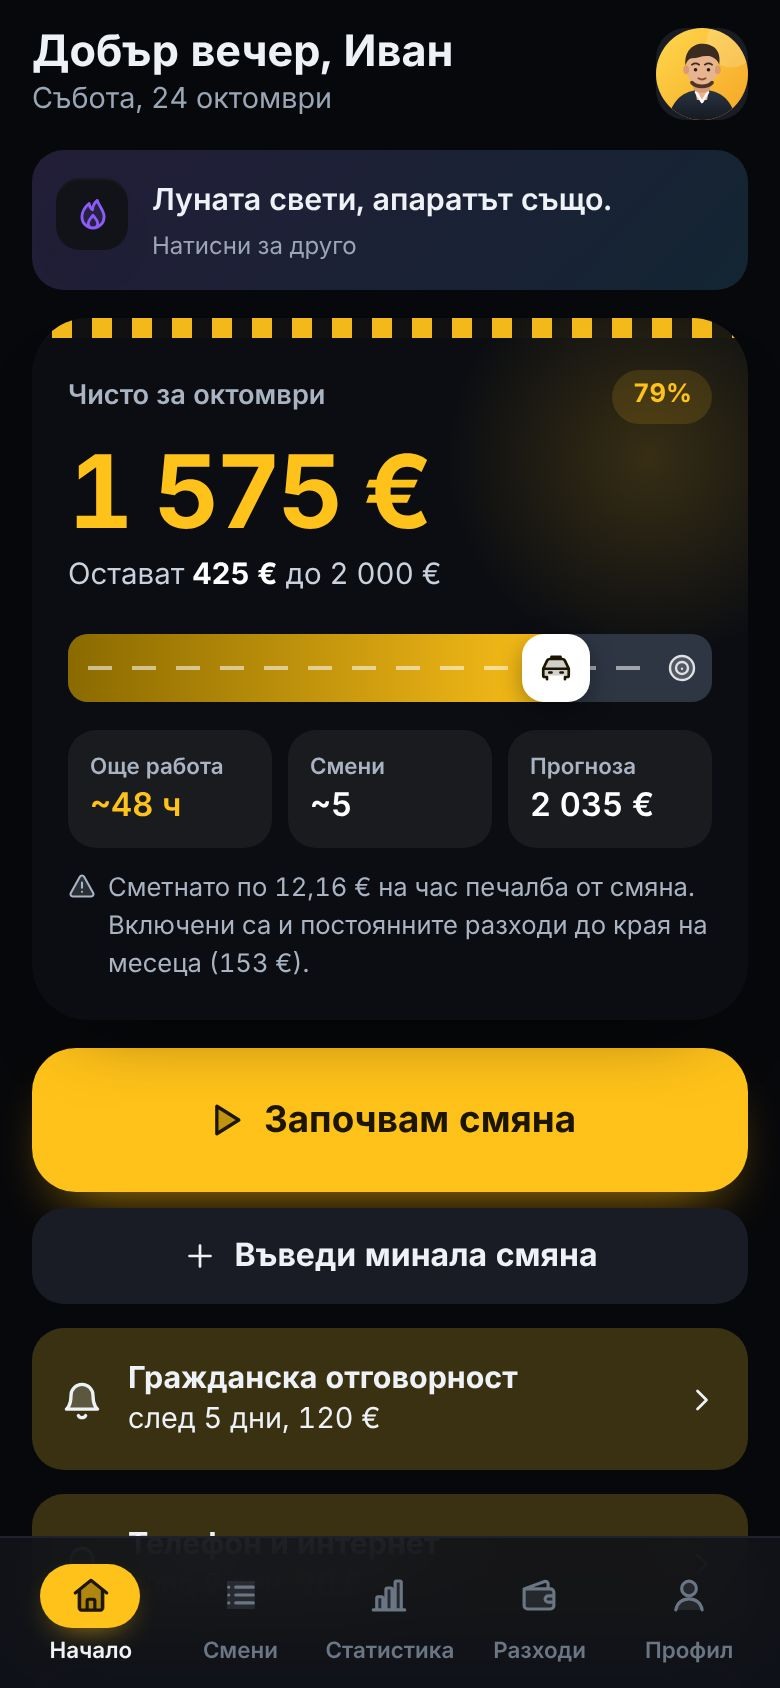
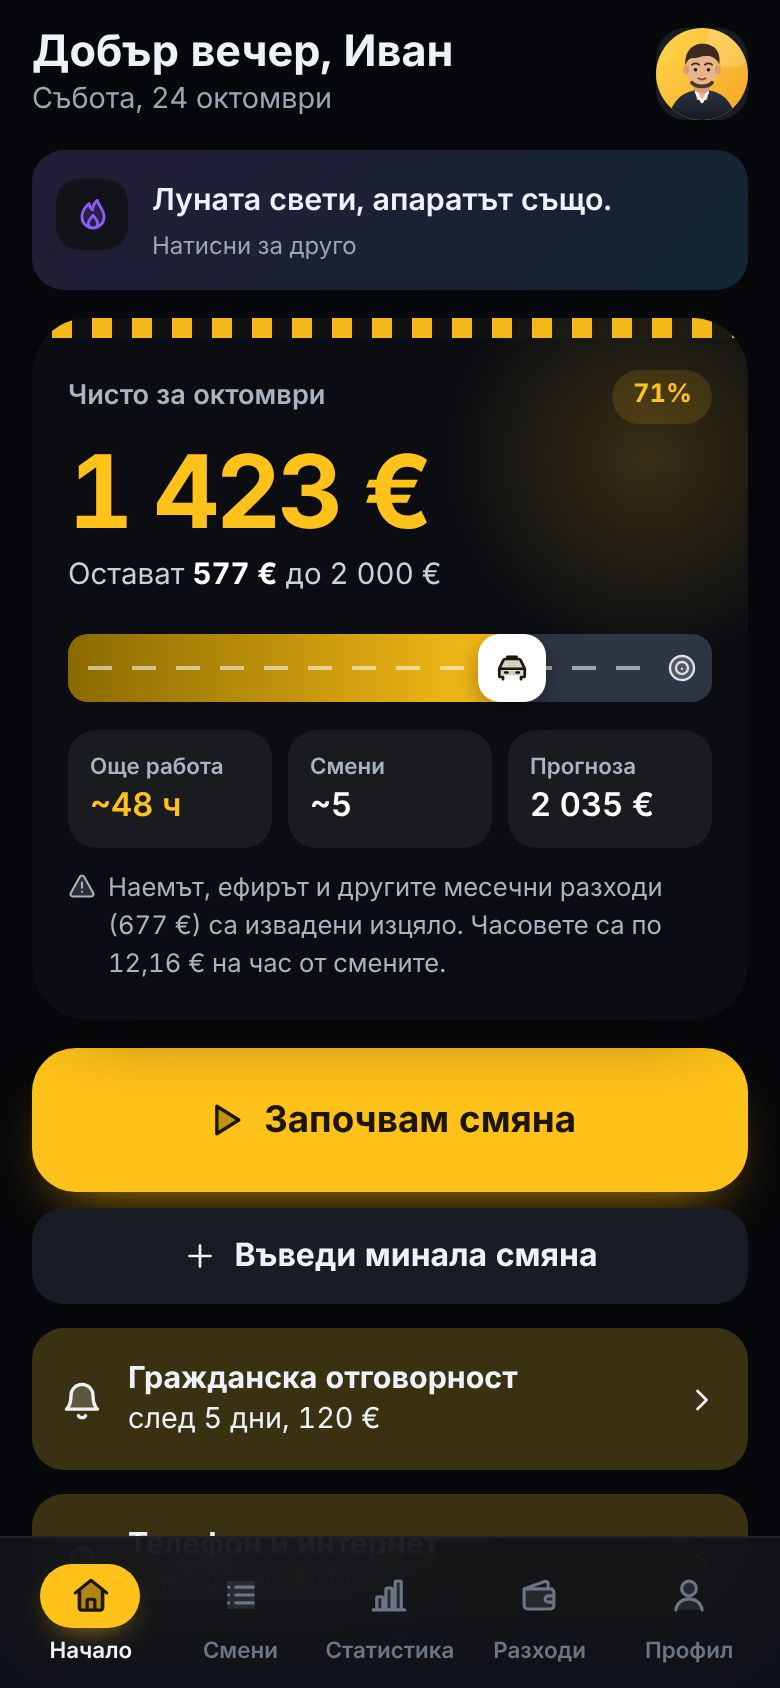
Цел за месеца: наемът, ефирът и месечните разходи се изваждат изцяло
- Чистото за месеца на началния екран вече е след целия наем/ефир за месеца
- Часовете до целта = (цел − чисто) / печалба на час от смените
- Смяна над 24 ч или с край в бъдещето: пита, вместо да блокира
- Обновени снимки и текстове на сайта

Claude-Session: https://claude.ai/code/session_014HWntc6b96vsoychA5RByP

diff --git a/js/views/shift.js b/js/views/shift.js
@@ -102,7 +102,7 @@ export function shiftEditorView(ctx) {
       // Лента за запис
       h('div', { class: 'save-bar' },
         h('div', { class: 'sum' }, h('span', null, 'Чисто за смяната'), h('b', { class: net >= 0 ? 'pos' : 'neg' }, money(net))),
-        h('button', { class: 'btn btn-primary btn-lg', onclick: save }, icon('check', 20), !draft.end ? 'Запази' : wasActive ? 'Приключи' : 'Запази')));
+        h('button', { class: 'btn btn-primary btn-lg', onclick: () => save() }, icon('check', 20), !draft.end ? 'Запази' : wasActive ? 'Приключи' : 'Запази')));
   }
 
   const kmTile = (label, v, onTap) => h('button', { class: 'tile', style: { '--tc': 'var(--c-teal)' }, onclick: onTap },
@@ -165,11 +165,16 @@ export function shiftEditorView(ctx) {
     draw();
     toast(`Добавени ${copied.length} разхода. Смени сумите, ако трябва.`);
   }
-  function save() {
+  function save(force = false) {
     if (draft.end && new Date(draft.end) <= new Date(draft.start)) { toast('Краят трябва да е след началото', 'err'); return; }
     if (draft.kmEnd > 0 && draft.kmEnd < draft.kmStart) { toast('Провери километража', 'err'); return; }
-    if (draft.end && new Date(draft.end) - new Date() > 10 * 60000) { toast('Краят на смяната е в бъдещето. Провери датата.', 'err'); return; }
-    if (draft.end && (new Date(draft.end) - new Date(draft.start)) / 3600000 > 24) { toast('Смяната е над 24 часа. Провери началото и края.', 'err'); return; }
+    // Необичайна смяна (над 24 часа или с край в бъдещето) – питаме, но позволяваме
+    const longH = draft.end ? (new Date(draft.end) - new Date(draft.start)) / 3600000 : 0;
+    const future = draft.end && new Date(draft.end) - new Date() > 10 * 60000;
+    if (!force && (longH > 24 || future)) {
+      confirmSheet({ title: 'Провери времето', text: `${longH > 24 ? `Смяната е ${Math.round(longH)} часа. ` : ''}${future ? 'Краят е в бъдещето. ' : ''}Да я запишем ли така?`, okLabel: 'Запиши все пак', onOk: () => save(true) });
+      return;
+    }
     const saved = store.saveShift(draft);
     const ended = wasActive && saved.end;
     draft = null; draftKey = null;

diff --git a/js/calc.js b/js/calc.js
@@ -149,8 +149,13 @@ export function goalProgress(data) {
     const withoutWork = fixedForDay(data.costs, data.profile, d, false);
     fixedLeft += withoutWork + (all - withoutWork) * workRatio; // таксата „на работен ден“ – само за очакваните работни дни
   }
-  const remaining = Math.max(0, goal - st.net);
-  const toEarn = remaining > 0 ? remaining + fixedLeft : 0; // нужна печалба от смени до края на месеца
+  // Целта се гледа като шофьор: наемът, ефирът и другите месечни разходи са за целия месец
+  // (обикновено вече платени), затова се изваждат изцяло още сега, а не ден по ден.
+  // Остава да се изкара разликата до целта с печалбата на час от смените (без постоянните разходи).
+  const monthFixed = st.fixedExp + fixedLeft;
+  const net = st.income - st.varExp - monthFixed;
+  const remaining = Math.max(0, goal - net);
+  const toEarn = remaining; // нужна печалба от смени до края на месеца
   const hoursNeeded = ratePerHour > 0 ? toEarn / ratePerHour : null;
   const shiftsNeeded = hoursNeeded != null ? Math.ceil(hoursNeeded / avgShiftHours) : null;
   const shiftsLeft = Math.max(1, Math.round(remainingDays * workRatio));
@@ -158,10 +163,10 @@ export function goalProgress(data) {
   const avgDaily = elapsed ? st.net / elapsed : 0;
   const forecast = st.net + (st.workedDays ? ((st.income - st.varExp) / Math.max(st.workedDays, 1)) * remainingDays * workRatio - fixedLeft : avgDaily * remainingDays);
   return {
-    goal, net: st.net, pct: goal ? st.net / goal : 0, remaining, toEarn, fixedLeft, forecast, remainingDays,
+    goal, net, netToDate: st.net, monthFixed, pct: goal ? net / goal : 0, remaining, toEarn, fixedLeft, forecast, remainingDays,
     ratePerHour, hoursNeeded, shiftsNeeded, avgShiftHours, shiftsLeft, needPerShift,
     feasible: hoursNeeded != null && hoursNeeded <= remainingDays * 12,
-    done: goal > 0 && st.net >= goal, stats: st,
+    done: goal > 0 && net >= goal, stats: st,
   };
 }
 

diff --git a/faq.html b/faq.html
@@ -68,7 +68,7 @@
     <div class="faq-group rv">
       <h3>Печалба и статистика</h3>
       <details><summary>Как се изчислява чистата печалба?</summary><p>Оборот (кеш, карта, приложения, бакшиш) минус разходите от смяната (гориво, паркинг, автомивка…) минус постоянните разходи, разпределени по дни. Например годишна винетка от 97 € е 0,27 € на ден. Подробно е описано в <a href="/how">Как работи</a>.</p></details>
-      <details><summary>Как работи целта за месеца?</summary><p>Задаваш колко искаш да изкараш чисто. На началния екран виждаш колко си изкарал, колко остава и колко часа още трябва при твоята средна печалба на час.</p></details>
+      <details><summary>Как работи целта за месеца?</summary><p>Задаваш колко искаш да изкараш чисто. Наемът, ефирът и другите месечни разходи се изваждат изцяло още в началото на месеца, защото така или иначе ги плащаш. На началния екран виждаш колко ти остава до целта и колко часа още трябват при твоята печалба на час от смените.</p></details>
       <details><summary>Мога ли да видя кои дни и часове са най-печеливши?</summary><p>Да. В „Статистика“ виждаш печалбата на час по дни от седмицата и по часове, както и рекордите си.</p></details>
       <details><summary>Мога ли да дам отчет на счетоводителя си?</summary><p>Да. Сваляш смените в Excel или правиш PDF отчет за избран период.</p></details>
     </div>

diff --git a/site/faq.html b/site/faq.html
@@ -36,7 +36,7 @@
     <div class="faq-group rv">
       <h3>Печалба и статистика</h3>
       <details><summary>Как се изчислява чистата печалба?</summary><p>Оборот (кеш, карта, приложения, бакшиш) минус разходите от смяната (гориво, паркинг, автомивка…) минус постоянните разходи, разпределени по дни. Например годишна винетка от 97 € е 0,27 € на ден. Подробно е описано в <a href="/how">Как работи</a>.</p></details>
-      <details><summary>Как работи целта за месеца?</summary><p>Задаваш колко искаш да изкараш чисто. На началния екран виждаш колко си изкарал, колко остава и колко часа още трябва при твоята средна печалба на час.</p></details>
+      <details><summary>Как работи целта за месеца?</summary><p>Задаваш колко искаш да изкараш чисто. Наемът, ефирът и другите месечни разходи се изваждат изцяло още в началото на месеца, защото така или иначе ги плащаш. На началния екран виждаш колко ти остава до целта и колко часа още трябват при твоята печалба на час от смените.</p></details>
       <details><summary>Мога ли да видя кои дни и часове са най-печеливши?</summary><p>Да. В „Статистика“ виждаш печалбата на час по дни от седмицата и по часове, както и рекордите си.</p></details>
       <details><summary>Мога ли да дам отчет на счетоводителя си?</summary><p>Да. Сваляш смените в Excel или правиш PDF отчет за избран период.</p></details>
     </div>

diff --git a/how.html b/how.html
@@ -60,7 +60,7 @@
     <div class="f-grid stagger" style="margin-top:30px">
       <div class="f-card"><span class="f-ic" data-ic="calendar" style="--c:#8B5CF6"></span><h3>Разпределено по дни</h3><p>Винетка 97 € за година = 0,27 € на ден. ГО 120 € на тримесечие = 1,32 € на ден. Така един ден не изглежда на загуба само защото си платил годишна такса.</p></div>
       <div class="f-card"><span class="f-ic" data-ic="phone" style="--c:#F5A524"></span><h3>Ефир по твоя начин</h3><p>40 € на седмица се разпределят по всички дни. 10 € на ден се смятат само в дните, в които работиш.</p></div>
-      <div class="f-card"><span class="f-ic" data-ic="target" style="--c:#12A15E"></span><h3>Колко часа до целта</h3><p>Оставащото до целта плюс постоянните разходи до края на месеца, разделени на средната ти печалба на час от смените.</p></div>
+      <div class="f-card"><span class="f-ic" data-ic="target" style="--c:#12A15E"></span><h3>Колко часа до целта</h3><p>Наемът, ефирът и другите месечни разходи се изваждат изцяло още в началото на месеца. Оставащото до целта се дели на печалбата ти на час от смените.</p></div>
     </div>
   </div>
 </section>

diff --git a/site/how.html b/site/how.html
@@ -28,7 +28,7 @@
     <div class="f-grid stagger" style="margin-top:30px">
       <div class="f-card"><span class="f-ic" data-ic="calendar" style="--c:#8B5CF6"></span><h3>Разпределено по дни</h3><p>Винетка 97 € за година = 0,27 € на ден. ГО 120 € на тримесечие = 1,32 € на ден. Така един ден не изглежда на загуба само защото си платил годишна такса.</p></div>
       <div class="f-card"><span class="f-ic" data-ic="phone" style="--c:#F5A524"></span><h3>Ефир по твоя начин</h3><p>40 € на седмица се разпределят по всички дни. 10 € на ден се смятат само в дните, в които работиш.</p></div>
-      <div class="f-card"><span class="f-ic" data-ic="target" style="--c:#12A15E"></span><h3>Колко часа до целта</h3><p>Оставащото до целта плюс постоянните разходи до края на месеца, разделени на средната ти печалба на час от смените.</p></div>
+      <div class="f-card"><span class="f-ic" data-ic="target" style="--c:#12A15E"></span><h3>Колко часа до целта</h3><p>Наемът, ефирът и другите месечни разходи се изваждат изцяло още в началото на месеца. Оставащото до целта се дели на печалбата ти на час от смените.</p></div>
     </div>
   </div>
 </section>

diff --git a/js/views/home.js b/js/views/home.js
@@ -123,7 +123,7 @@ function meter(g, month) {
       h('div', { class: 'meter-cell' }, h('span', null, 'Прогноза'), h('b', null, money(g.forecast)))),
     g.goal > 0 && !g.done && hours == null && h('div', { class: 'meter-note' }, icon('clock', 14), h('span', null, 'Колко часа и смени остават до целта ще сметнем след първата ти смяна.')),
     g.goal > 0 && !g.done && hours != null && h('div', { class: 'meter-note' }, icon('alert', 14),
-      h('span', null, `Сметнато по ${money2(g.ratePerHour)} на час печалба от смяна. Включени са и постоянните разходи до края на месеца (${money(g.fixedLeft)}).`)));
+      h('span', null, `Наемът, ефирът и другите месечни разходи (${money(g.monthFixed)}) са извадени изцяло. Часовете са по ${money2(g.ratePerHour)} на час от смените.`)));
 }
 
 function weekCard(data) {

diff --git a/about.html b/about.html
@@ -89,7 +89,7 @@
       <div class="tl"><b>07:00 · Старт</b><span>Едно докосване и смяната тръгва. Виждаш днешната резервация за летището.</span></div>
       <div class="tl"><b>13:20 · Гориво</b><span>Зареждаш. Записваш сумата с големия бутон „Гориво“.</span></div>
       <div class="tl"><b>17:30 · Стоп</b><span>Въвеждаш кеш, карта, приложения и бакшиш. Километрите и часовете се смятат.</span></div>
-      <div class="tl"><b>17:31 · Чисто</b><span>„Днес остават 96 €. До целта за месеца: 425 € или около 46 часа.“</span></div>
+      <div class="tl"><b>17:31 · Чисто</b><span>„Днес остават 96 €. До целта за месеца: 577 € или около 48 часа.“</span></div>
     </div>
   </div>
 </section>

diff --git a/site/about.html b/site/about.html
@@ -57,7 +57,7 @@
       <div class="tl"><b>07:00 · Старт</b><span>Едно докосване и смяната тръгва. Виждаш днешната резервация за летището.</span></div>
       <div class="tl"><b>13:20 · Гориво</b><span>Зареждаш. Записваш сумата с големия бутон „Гориво“.</span></div>
       <div class="tl"><b>17:30 · Стоп</b><span>Въвеждаш кеш, карта, приложения и бакшиш. Километрите и часовете се смятат.</span></div>
-      <div class="tl"><b>17:31 · Чисто</b><span>„Днес остават 96 €. До целта за месеца: 425 € или около 46 часа.“</span></div>
+      <div class="tl"><b>17:31 · Чисто</b><span>„Днес остават 96 €. До целта за месеца: 577 € или около 48 часа.“</span></div>
     </div>
   </div>
 </section>

diff --git a/sw.js b/sw.js
@@ -1,5 +1,5 @@
 // ProfiTaxi – service worker: приложението се отваря и без интернет.
-const VERSION = 'profitaxi-v13';
+const VERSION = 'profitaxi-v14';
 const SHELL = [
   '/app', '/app.html', '/css/app.css', '/manifest.webmanifest', '/icons/icon-192.png', '/icons/favicon-64.png',
   '/js/app.js', '/js/util.js', '/js/store.js', '/js/calc.js', '/js/ui.js', '/js/constants.js',
